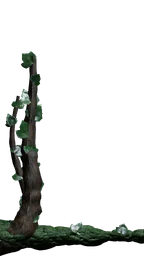
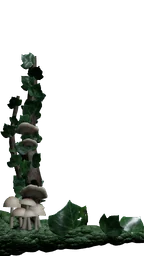
Moonlit forest frame: lusher
Ivy twice as thick on the branches and roots and along the edges, moss
grown over most of the bark rim and creeping along the wood, tiers of
bracket fungi on the limbs and clusters of small mushrooms in the moss at
the bottom. New shared studio pieces: bracket and mushroom.

Changed region(s): [[0.0, 0.1875, 1.0, 1.0]]

diff --git a/scripts/edge-studio/themes/werewolf-dark.js b/scripts/edge-studio/themes/werewolf-dark.js
@@ -1,14 +1,13 @@
 /*
-  Werewolf, Moonlit forest: dark oak bark with a thin line of moss along its
-  inner edge. In the corners an old branch reaches down each side and a root
-  climbs up from the bottom, both wound with ivy (the commonest climber in an
-  Irish wood) and cushioned with moss; between them only moss and the odd
-  leaf, which end before the content starts. Like the cave, the long pieces
+  Werewolf, Moonlit forest: dark oak bark, mostly grown over with moss. In the corners an old branch reaches down each side and a root
+  climbs up from the bottom, both wound thick with ivy (the commonest climber in an
+  Irish wood), mossy, with bracket fungi and small mushrooms in the moss;
+  between them moss and leaves, which end before the content starts. Like the cave, the long pieces
   keep to the side gutters.
   Colours follow the forest backdrop: cool, grey-green, lit by the moon.
   Materials (ambientCG, CC0): Bark014, Moss002, LeafSet017 (ivy).
 */
-import { atlasLeaves, limb, lights, mound, pbr, random, rim, RIM_WIDTH } from '../studio.js';
+import { atlasLeaves, bracket, limb, lights, mound, mushroom, pbr, random, rim, RIM_WIDTH } from '../studio.js';
 import * as THREE from 'three';
 
 const bark = () => pbr('Bark014', { tint: '#7d7a72', roughness: 0.9, normalScale: 1.8, tile: 96 });
@@ -78,18 +77,45 @@ function corner({ down, right, width, height, seed, reach }) {
     const twig = limb({ points: [[t0.x, t0.y, t0.z], [at(6), y(edge + reach * 0.5), 4], [at(9 + rnd() * 4), y(edge + reach * 0.72), 5]], radius: [2.4, 0.8], seed: seed * 5 });
     scene.add(new THREE.Mesh(twig.geometry, wood([16, twig.length])));
 
-    // Ivy on both.
-    windIvy(scene, leaf, { ...main, rnd, hang: down, right, width });
-    windIvy(scene, leaf, { ...twig, rnd, hang: down, every: 11, size: [6, 9], right, width });
+    // Moss creeping over the wood.
+    const p = new THREE.Vector3();
+    for (const [l, r0] of [[main, down ? 6.5 : 8], [twig, 2.4]])
+      for (let d = 2; d < l.length * 0.85; d += 3 + rnd() * 5) {
+        if (rnd() < 0.3) continue;
+        l.curve.getPointAt(d / l.length, p);
+        const r = r0 * (1 - (0.75 * d) / l.length);
+        scene.add(mound(green, p.x + (rnd() - 0.5) * r, p.y, r * (0.7 + rnd() * 0.6), 1.2 + rnd() * 1.6, seed * 17 + d + r0, down));
+      }
+
+    // Bracket fungi in tiers on the main limb, above the moss.
+    for (const s of down ? [0.3, 0.36, 0.62] : [0.28, 0.34, 0.58, 0.64]) {
+      main.curve.getPointAt(s, p);
+      const f = bracket({ radius: 5.5 + rnd() * 2.5 - s * 2.5, seed: seed * 19 + s * 100 });
+      f.position.set(p.x + (rnd() - 0.5) * 3, p.y, p.z + 4);
+      f.rotation.z = (rnd() - 0.5) * 0.5;
+      scene.add(f);
+    }
+
+    // Ivy on both, thick.
+    windIvy(scene, leaf, { ...main, rnd, hang: down, every: 5.5, size: [9, 15], right, width });
+    windIvy(scene, leaf, { ...twig, rnd, hang: down, every: 6.5, size: [7, 11], right, width });
 
     // Moss: a cushion in the corner, thinning inwards along the edge.
     for (let x = -4; x < width; x += 5 + rnd() * 5) {
       const heavy = Math.max(0, 1 - x / (width * 0.8));
-      scene.add(mound(green, at(x), y(edge + 2), 5 + heavy * 8 + rnd() * 3, 2.2 + heavy * 4 + rnd() * 1.5, seed * 11 + x, down));
+      scene.add(mound(green, at(x), y(edge + 2), 6 + heavy * 10 + rnd() * 3, 3 + heavy * 6 + rnd() * 1.5, seed * 11 + x, down));
     }
+    // Mushrooms in the moss at the foot of the root.
+    if (!down)
+      for (let i = 0; i < 6; i++) {
+        const x = 4 + rnd() * 24;
+        const m = mushroom({ height: 5 + rnd() * 7, cap: 3 + rnd() * 2.4, seed: seed * 23 + i, lean: (rnd() - 0.5) * 0.5, colour: rnd() < 0.5 ? '#76604a' : '#5a4532' });
+        m.position.set(at(x), y(edge + 4 + rnd() * 3), 8 + rnd() * 3);
+        scene.add(m);
+      }
     // A few leaves along the edge, inside the fringe.
-    for (let x = GUTTER + rnd() * 10; x < width - 6; x += 18 + rnd() * 22) {
-      const m = leaf(Math.floor(rnd() * 6), 6 + rnd() * 3);
+    for (let x = GUTTER + rnd() * 6; x < width - 4; x += 8 + rnd() * 10) {
+      const m = leaf(Math.floor(rnd() * 6), 7 + rnd() * (FRINGE - 10));
       m.rotation.set((rnd() - 0.5) * 1.2, (rnd() - 0.5), (down ? Math.PI : 0) + (rnd() - 0.5) * 1.4, 'ZXY');
       m.position.set(at(x), y(edge + 3), 6);
       scene.add(m);
@@ -107,11 +133,11 @@ function fringe({ down, width, height, seed }) {
     const edge = down ? height - RIM_WIDTH * 0.5 : RIM_WIDTH * 0.5;
     const thrice = (x, make) => [x - width, x, x + width].forEach((at) => scene.add(make(at)));
     for (let x = 0; x < width; x += 6 + rnd() * 6) {
-      const w = 5 + rnd() * 6, h = 2 + rnd() * 2.5, s = seed * 7 + x;
+      const w = 5 + rnd() * 7, h = 2.6 + rnd() * 2.8, s = seed * 7 + x;
       thrice(x, (at) => mound(green, at, edge + (down ? -2 : 2), w, h, s, down));
     }
-    for (let x = 8 + rnd() * 20; x < width - 8; x += 45 + rnd() * 70) {
-      const kind = Math.floor(rnd() * 6), h = 6 + rnd() * (FRINGE - 10), rx = (rnd() - 0.5) * 1.2, ry = rnd() - 0.5, rz = (down ? Math.PI : 0) + (rnd() - 0.5) * 1.2;
+    for (let x = 4 + rnd() * 8; x < width - 4; x += 9 + rnd() * 16) {
+      const kind = Math.floor(rnd() * 6), h = 7 + rnd() * (FRINGE - 9), rx = (rnd() - 0.5) * 1.2, ry = rnd() - 0.5, rz = (down ? Math.PI : 0) + (rnd() - 0.5) * 1.2;
       thrice(x, (at) => {
         const m = leaf(kind, h);
         m.rotation.set(rx, ry, rz, 'ZXY');
@@ -119,6 +145,17 @@ function fringe({ down, width, height, seed }) {
         return m;
       });
     }
+    // Now and then a few mushrooms in the moss along the bottom.
+    if (!down)
+      for (let x = 30 + rnd() * 40; x < width - 10; x += 70 + rnd() * 60)
+        for (let i = 0, n = 2 + Math.floor(rnd() * 3); i < n; i++) {
+          const o = (rnd() - 0.5) * 10, h = 4 + rnd() * 5, cap = 2.6 + rnd() * 1.8, s = seed * 29 + x + i, lean = (rnd() - 0.5) * 0.5, colour = rnd() < 0.5 ? '#76604a' : '#5a4532';
+          thrice(x + o, (at) => {
+            const m = mushroom({ height: h, cap, seed: s, lean, colour });
+            m.position.set(at, edge + 3, 9);
+            return m;
+          });
+        }
     lights(scene, { ...LIT, centre: [width / 2, down ? height - 420 : 420, 160], intensity: LIT.intensity * 5 });
   };
 }
@@ -133,8 +170,8 @@ const forest = {
       height: 224,
       build: async (scene) => {
         await rim(scene, { material: await bark(), seed: 5, height: 3, lit: LIT });
-        // The thin line of moss along the inner edge.
-        await rim(scene, { material: await moss(), seed: 5, height: 1.6, band: { from: 0.68, wobble: 0.16, lift: 1.2 } });
+        // Moss grown over most of the bark; the bark shows along the outer edge.
+        await rim(scene, { material: await moss(), seed: 5, height: 2.2, band: { from: 0.3, wobble: 0.28, lift: 1.4 } });
       },
     },
     'top-left': { ...TOP, build: corner({ down: true, right: false, ...TOP, seed: 31, reach: 150 }) },

diff --git a/scripts/edge-studio/studio.js b/scripts/edge-studio/studio.js
@@ -273,3 +273,56 @@ export async function atlasLeaves(id, rects, { size = 1024, tint = '#ffffff', ro
     return new THREE.Mesh(geometry, material);
   };
 }
+
+// Colours by distance (0-1) through a list of stops, for banded or shaded parts.
+function shade(geometry, stops, at) {
+  const pos = geometry.attributes.position;
+  const colours = [];
+  const c = new THREE.Color(), a = new THREE.Color(), b = new THREE.Color();
+  for (let k = 0; k < pos.count; k++) {
+    const t = Math.min(0.999, Math.max(0, at(pos.getX(k), pos.getY(k), pos.getZ(k)))) * (stops.length - 1);
+    const i = Math.floor(t);
+    c.copy(a.set(stops[i])).lerp(b.set(stops[i + 1]), t - i);
+    colours.push(c.r, c.g, c.b);
+  }
+  geometry.setAttribute('color', new THREE.Float32BufferAttribute(colours, 3));
+}
+
+/*
+  A bracket fungus: a banded half-shelf growing out of a trunk towards the
+  viewer, tilted up so its top shows. Its attachment is at the origin.
+*/
+export function bracket({ radius, seed, bands = ['#2a2019', '#4c3f31', '#665a48', '#857a66'], tilt = -0.95 }) {
+  const n = noise3(seed);
+  const geometry = new THREE.SphereGeometry(radius, 28, 8, 0, Math.PI, 0, Math.PI);
+  const pos = geometry.attributes.position;
+  for (let k = 0; k < pos.count; k++) {
+    const x = pos.getX(k), y = pos.getY(k), z = pos.getZ(k);
+    const f = 1 + 0.12 * n(x * 0.5, 0, z * 0.5);
+    pos.setXYZ(k, x * f, y * 0.26 + 0.04 * (x * x + z * z) / radius, z * f);
+  }
+  geometry.computeVertexNormals();
+  // Bands from the attachment out to a pale rim.
+  shade(geometry, bands.concat(bands.slice(1)), (x, y, z) => Math.hypot(x, z) / radius);
+  const mesh = new THREE.Mesh(geometry, new THREE.MeshStandardMaterial({ vertexColors: true, roughness: 0.75 }));
+  mesh.rotation.x = tilt;
+  return mesh;
+}
+
+// A small capped mushroom (a bonnet, an inkcap…), its base at the origin, growing up +y.
+export function mushroom({ height, cap, seed, colour = '#6e5a44', stem = '#6c6456', lean = 0 }) {
+  const rnd = random(seed);
+  const group = new THREE.Group();
+  const s = new THREE.Mesh(new THREE.CylinderGeometry(cap * 0.16, cap * 0.24, height, 10, 4), new THREE.MeshStandardMaterial({ color: stem, roughness: 0.7 }));
+  s.position.y = height / 2;
+  const capGeometry = new THREE.SphereGeometry(cap, 24, 10, 0, Math.PI * 2, 0, Math.PI * (0.38 + rnd() * 0.12));
+  capGeometry.scale(1, 0.75 + rnd() * 0.5, 1);
+  // Darker at the crown, pale at the edge.
+  shade(capGeometry, [new THREE.Color(colour).multiplyScalar(0.62).getStyle(), colour, '#8d7f69'], (x, y, z) => Math.hypot(x, z) / cap);
+  const c = new THREE.Mesh(capGeometry, new THREE.MeshStandardMaterial({ vertexColors: true, roughness: 0.55, side: THREE.DoubleSide }));
+  const top = capGeometry.boundingBox ?? (capGeometry.computeBoundingBox(), capGeometry.boundingBox);
+  c.position.y = height - top.min.y * 0.6;
+  group.add(s, c);
+  group.rotation.z = lean;
+  return group;
+}

diff --git a/CLAUDE.md b/CLAUDE.md
@@ -167,7 +167,7 @@ Elysium is a cross-game vault for Vampire: The Masquerade, Werewolf: The Apocaly
 | `/dashboard/*` | Redirects to `/vault/vampire/*` (next.config.mjs) |
 
 - **Themes = game × mode.** `app/vault/[game]/layout.tsx` sets `data-game` on a wrapper; the mode is `<html data-theme>` (toggle). `app/games.css` holds per-game tokens, fonts (Werewolf: Cinzel; Hunter: Special Elite + Courier Prime), the `.frame` borders (gothic, neon, timber, paper & tape; Werewolf's two are rendered, see "Rendered frames") and ambient keyframes. Vampire uses the root tokens. Hunter's light mode ("the inn") is a true light theme and is being replaced by a city concept (roadmap); the others stay dark.
-- **Rendered frames (edge studio, in progress):** `scripts/edge-studio/` renders theme frames once with three.js in headless Chrome (`node scripts/edge-studio/render.mts <skin>`; needs Google Chrome) from CC0 ambientCG materials (downloaded into the git-ignored `.cache/`) into `public/frames/<skin>/` (`rim.webp`, a 9-slice border; corner pieces `top-left`/`top-right`/`bottom-left`/`bottom-right` whose long ornaments keep to the 32px side gutter (border + padding); `top`/`bottom`, a short tiled fringe that ends before the content). Every theme shares one scene (`studio.js`: the same rim profile and width, the light at the panel's middle) and supplies its material, light colour and ornaments (`themes/<skin>.js`). In `app/games.css` one block of rules draws them (`--frame-rim`, `--frame-top`, `--frame-bottom`); ornament strips only on tall frames (`.frame-tall`, the chronicle's `.skin-frame`). Shared building blocks in `studio.js`: `rim` (with `band` for a second material along its inner edge, e.g. moss), `mound`, `spike`, `limb` (a tapering gnarled branch/root) and `atlasLeaves` (leaves cut from a CC0 leaf atlas). So far: the cave (`werewolf-light`: Rock020, stalactites and stalagmites) and Moonlit forest (`werewolf-dark`: Bark014 with a moss line, ivy-wound branches and roots from LeafSet017, Moss002).
+- **Rendered frames (edge studio, in progress):** `scripts/edge-studio/` renders theme frames once with three.js in headless Chrome (`node scripts/edge-studio/render.mts <skin>`; needs Google Chrome) from CC0 ambientCG materials (downloaded into the git-ignored `.cache/`) into `public/frames/<skin>/` (`rim.webp`, a 9-slice border; corner pieces `top-left`/`top-right`/`bottom-left`/`bottom-right` whose long ornaments keep to the 32px side gutter (border + padding); `top`/`bottom`, a short tiled fringe that ends before the content). Every theme shares one scene (`studio.js`: the same rim profile and width, the light at the panel's middle) and supplies its material, light colour and ornaments (`themes/<skin>.js`). In `app/games.css` one block of rules draws them (`--frame-rim`, `--frame-top`, `--frame-bottom`); ornament strips only on tall frames (`.frame-tall`, the chronicle's `.skin-frame`). Shared building blocks in `studio.js`: `rim` (with `band` for a second material along its inner edge, e.g. moss), `mound`, `spike`, `limb` (a tapering gnarled branch/root), `atlasLeaves` (leaves cut from a CC0 leaf atlas), `bracket` (bracket fungus) and `mushroom`. So far: the cave (`werewolf-light`: Rock020, stalactites and stalagmites) and Moonlit forest (`werewolf-dark`: Bark014 grown over with Moss002, branches and roots thick with ivy from LeafSet017, bracket fungi and mushrooms).
 - **Ambience:** `app/ui/game/Ambience.tsx`, one backdrop + looping element per game and mode.
 - **Navigation:** `app/ui/navbar.tsx` → `app/ui/SiteIsland.tsx` (site pages: links on the right, phone menu, section dots; no theme switch) and `app/ui/dashboard/sidenav.tsx` (dashboards: game switcher, nav items, Chronicles, Themes, Settings, Friends, Log out); the theme frame comes from `.frame`.
 - **Game config:** `app/lib/games.ts` (names, logos, nouns, mode names). Factions: `app/lib/factions.ts`. Sheets per game: `app/ui/sheets/game-sheets.tsx` (sections in `app/ui/sheets/sections/`).
